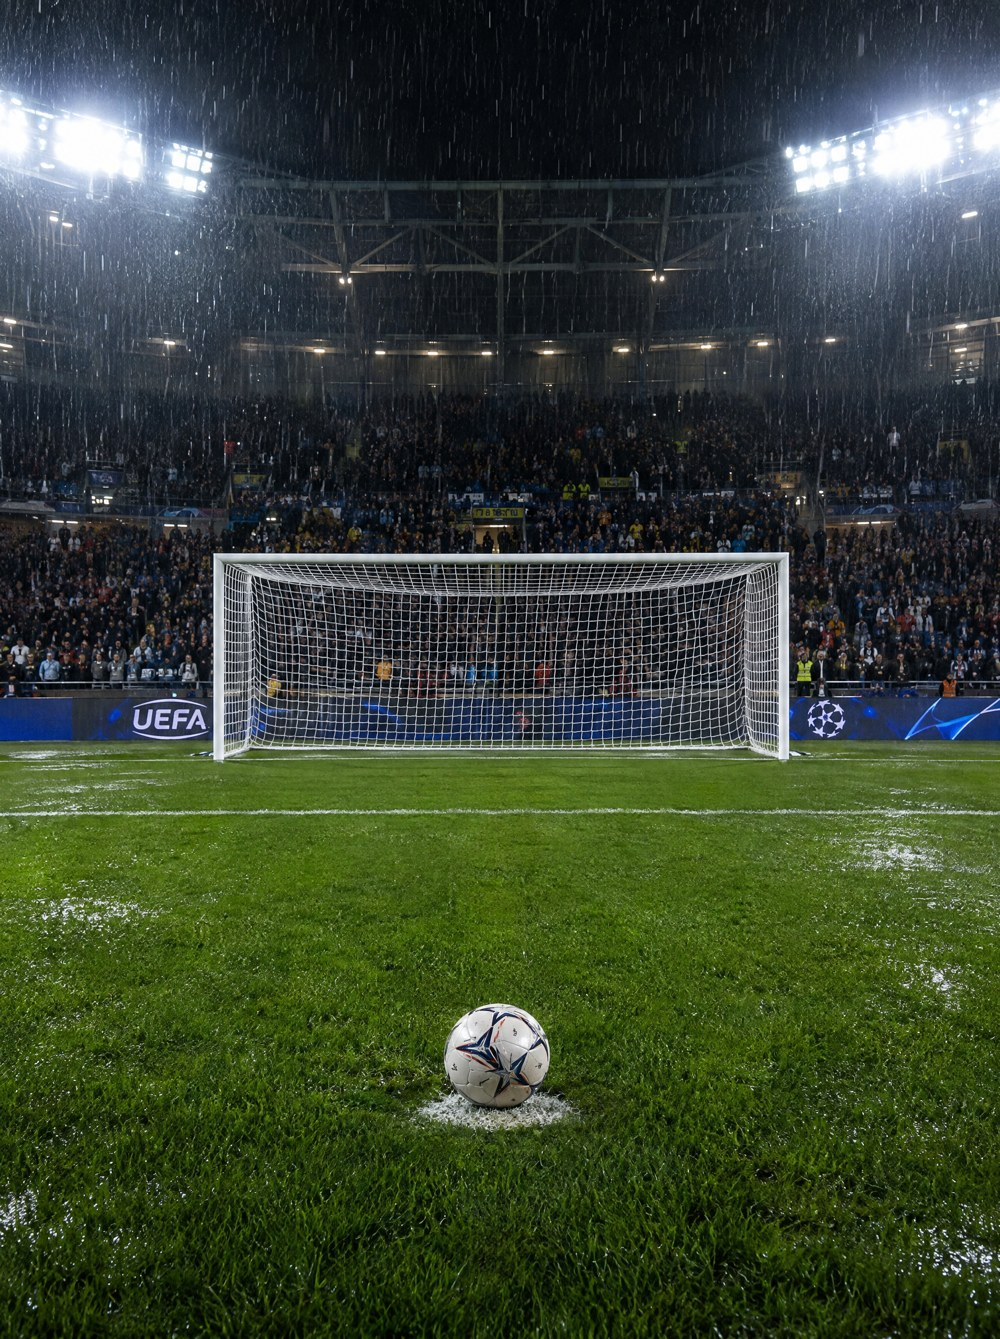
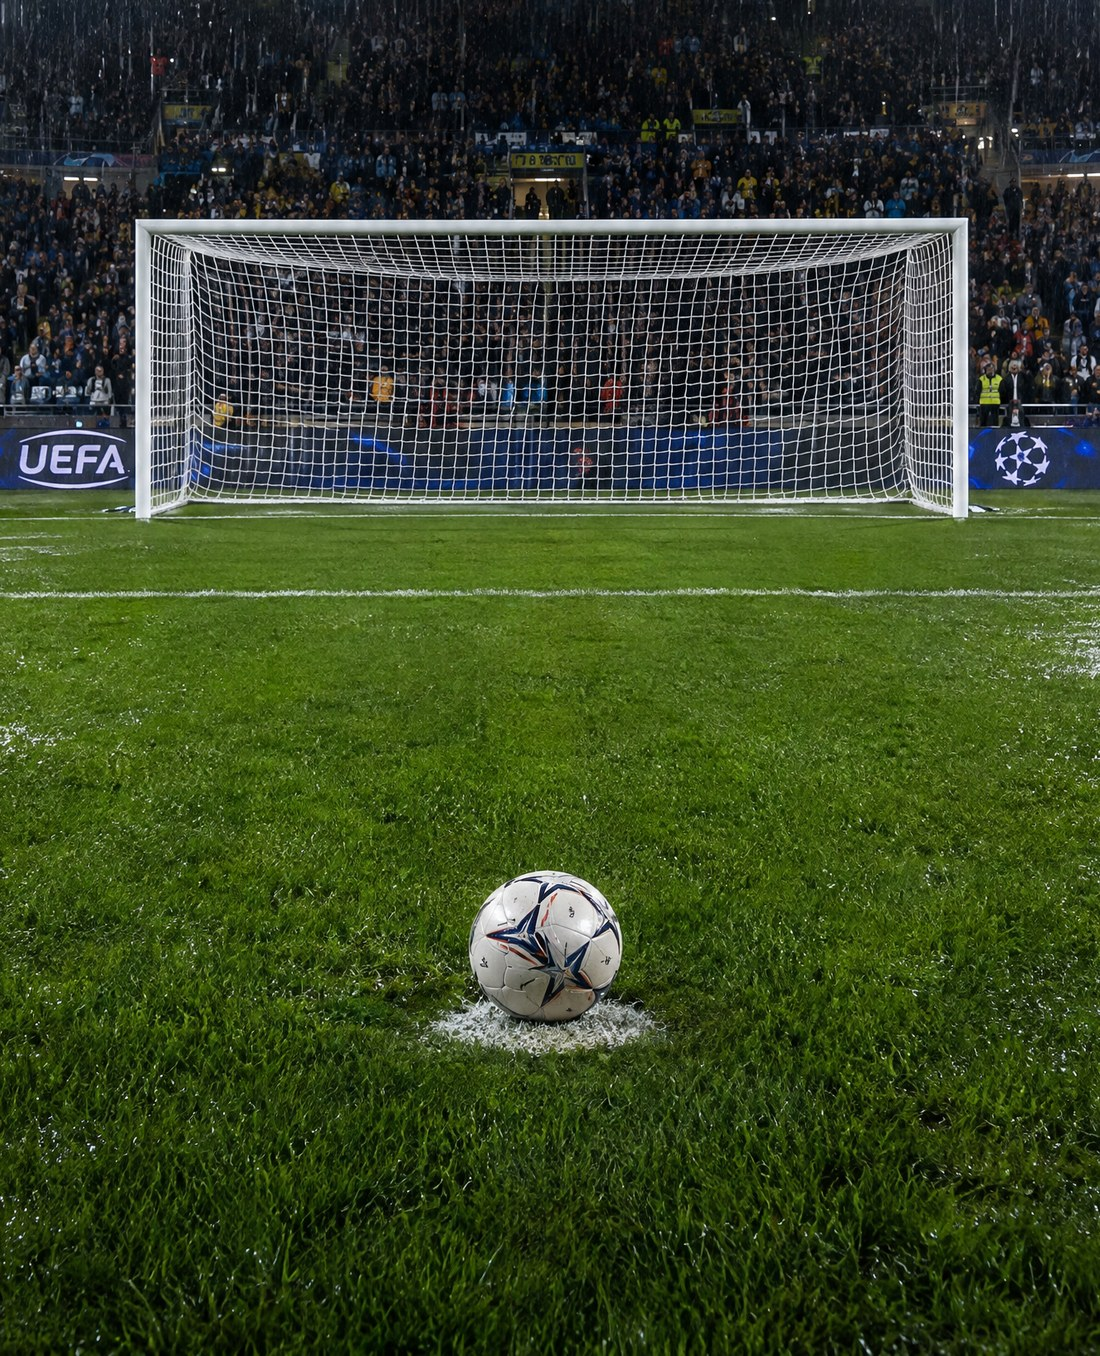
Penalty game: larger goal, symmetric layout, correct layering
Crop the stadium photo tighter so the goal is larger. Goal, penalty spot
and shooter are centred on the same axis. Shooter is smaller and stands
behind the ball; the ball is drawn in front. Keeper dives stay inside the
goal frame.

Claude-Session: https://claude.ai/code/session_01AQ7oTwvD4DwSNWQfH2t8Mw

diff --git a/lib/features/gamification/ui/penalty_play_screen.dart b/lib/features/gamification/ui/penalty_play_screen.dart
@@ -27,20 +27,20 @@ class _PenaltyPlayScreenState extends State<PenaltyPlayScreen>
 
   // Σκηνή: φωτογραφία stadium.jpg (1744x2336). Όλες οι θέσεις είναι κλάσματα
   // του πλάτους (w) και του ύψους (h) της εικόνας, ώστε να ταιριάζουν ακριβώς.
-  static const double _sceneAspect = 1744 / 2336;
-  static const double _goalL = 0.213, _goalR = 0.789; // άκρα τέρματος (x)
-  static const double _goalT = 0.413, _goalB = 0.5675; // άνω/κάτω άκρο (y)
-  static const double _spotX = 0.497, _spotY = 0.80; // σημείο πέναλτι
+  static const double _sceneAspect = 0.8112; // stadium.jpg (1100 px wide)
+  static const double _goalL = 0.121, _goalR = 0.879; // άκρα τέρματος (x), συμμετρικά
+  static const double _goalT = 0.161, _goalB = 0.382; // άνω/κάτω άκρο (y)
+  static const double _spotX = 0.5, _spotY = 0.714; // σημείο πέναλτι, στο κέντρο
   // Στόχοι μέσα στο τέρμα (κλάσμα του τέρματος), συμμετρικοί.
   static const List<double> _targetX = [1 / 6, 0.5, 5 / 6];
   static const double _targetY = 0.4;
   // Μεγέθη σε σχέση με τη σκηνή (ύψος / πλάτος).
-  static const double _shooterH = 0.60; // του ύψους
+  static const double _shooterH = 0.42; // του ύψους
   static const double _keeperH = 0.85; // του ύψους τέρματος
   static const double _keeperAspect = 0.741; // keeper.png
   static const double _diveAspect = 2.7; // keeper_dive_*.png
-  static const double _ballW = 0.085; // του πλάτους
-  static const double _diveW = 1.1; // της πλάτους του τέρματος
+  static const double _ballW = 0.10; // του πλάτους
+  static const double _diveW = 0.95; // του πλάτους του τέρματος
 
   // Χρονισμός (κλάσμα της συνολικής κίνησης).
   static const double _kickAt = 0.14; // η μπάλα φεύγει από το πόδι
@@ -395,10 +395,10 @@ class _PenaltyPlayScreenState extends State<PenaltyPlayScreen>
               final keeperStandH = goalH * _keeperH;
               final keeperStandW = keeperStandH * _keeperAspect;
               final dive = _ease(v, 0.08, 0.5, Curves.easeOutBack);
-              final keeperRest = Offset(cx, goalTop + goalH * 0.55);
+              final keeperRest = Offset(cx, goalTop + goalH * 0.6);
               final keeperDiveTarget = Offset(
                 goalLeft + _targetX[keep] * goalW,
-                goalTop + goalH * 0.62,
+                goalBottom - goalH * 0.12,
               );
               final keeperPos = keep == 1
                   ? keeperRest
@@ -406,6 +406,7 @@ class _PenaltyPlayScreenState extends State<PenaltyPlayScreen>
               final diving = keep != 1 && dive > 0.05;
               final diveW = goalW * _diveW;
               final diveHalfH = diveW / _diveAspect / 2;
+
               final crouch = v < _kickAt ? sin(pi * v / _kickAt) * 0.05 : 0.0;
 
               return Stack(
@@ -487,7 +488,7 @@ class _PenaltyPlayScreenState extends State<PenaltyPlayScreen>
                   Positioned(
                     left: 0,
                     right: 0,
-                    top: spot.dy - shooterHeight + 8,
+                    top: spot.dy - shooterHeight - h * 0.02,
                     height: shooterHeight,
                     child: Transform.rotate(
                       angle: shooterTilt,
